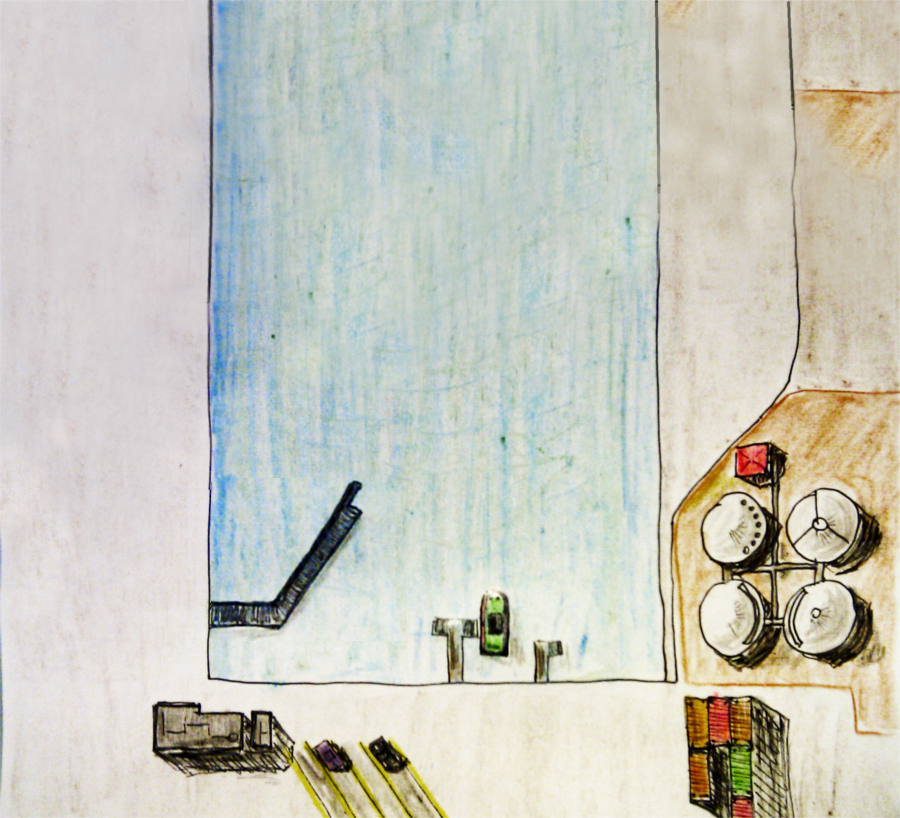
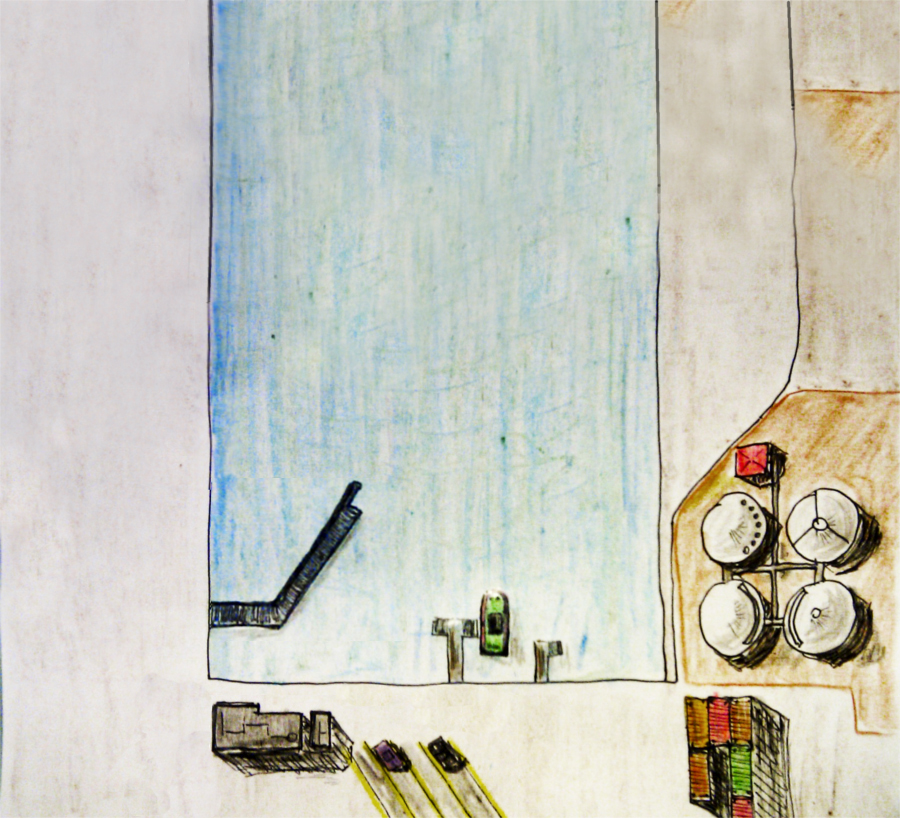
Achtergrond aangepast

Changed region(s): [[0.1556, 0.8557, 0.56, 1.0]]

diff --git a/Port.java b/Port.java
@@ -956,12 +956,37 @@ public class Port extends World
         removeObject(containerblauw4);
         removeObject(spoorwegrechtdoor4);
         removeObject(autowegvanlinks);
-        AutowegRechterzijde autowegrechterzijde = new AutowegRechterzijde();
-        addObject(autowegrechterzijde, 873, 115);
-        autowegrechterzijde.setLocation(872, 115);
         SpoorwegLang spoorweglang = new SpoorwegLang();
         addObject(spoorweglang, 183, 141);
         spoorweglang.setLocation(180, 142);
         spoorweglang.setLocation(178, 142);
+        AutowegVanLinks autowegvanlinks4 = new AutowegVanLinks();
+        addObject(autowegvanlinks4, 725, 151);
+        autowegvanlinks4.setLocation(722, 154);
+        autowegvanlinks4.setLocation(724, 153);
+        removeObject(treinrood);
+        TreinRood treinrood2 = new TreinRood();
+        addObject(treinrood2, 184, 69);
+        treinrood2.setLocation(178, 64);
+        spoorweglang.setLocation(183, 203);
+        spoorweglang.setLocation(183, 342);
+        treinrood2.setLocation(99, 90);
+        spoorweglang.setLocation(183, 352);
+        spoorweglang.setLocation(178, 385);
+        spoorweglang.setLocation(178, 378);
+        removeObject(autoweglinkerzijde2);
+        removeObject(treinrood2);
+        AutowegLang autoweglang = new AutowegLang();
+        addObject(autoweglang, 120, 280);
+        autoweglang.setLocation(97, 278);
+        Havenkraan1 havenkraan13 = new Havenkraan1();
+        addObject(havenkraan13, 236, 543);
+        havenkraan13.setLocation(228, 526);
+        autoweglang.setLocation(111, 278);
+        autoweglang.setLocation(114, 341);
+        removeObject(autowegvanlinks4);
+        AutowegVanLinks autowegvanlinks5 = new AutowegVanLinks();
+        addObject(autowegvanlinks5, 723, 168);
+        autowegvanlinks5.setLocation(724, 153);
     }
 }
